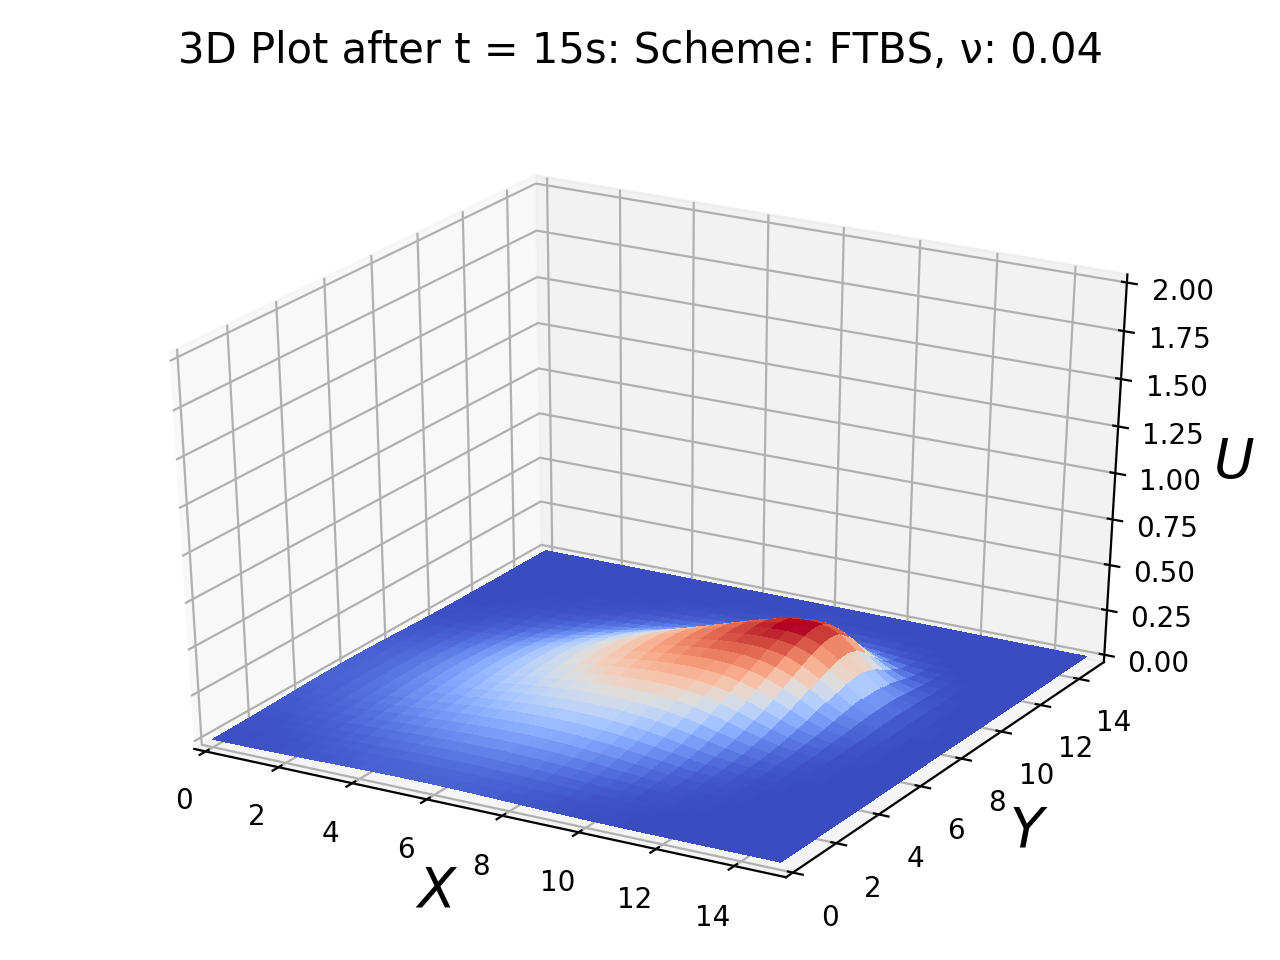
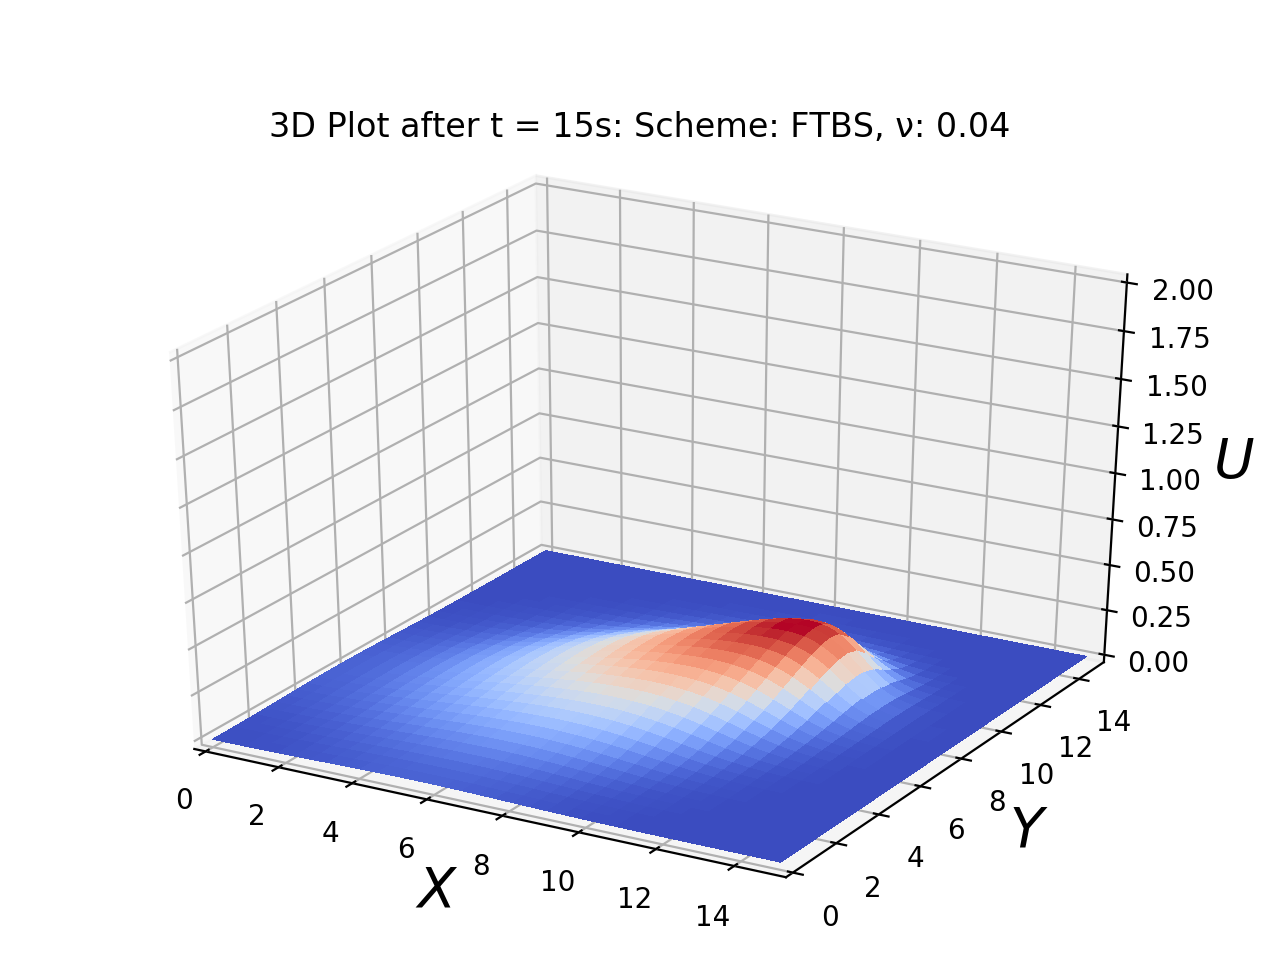
Corrected animation

Changed region(s): [[0.125, 0.0312, 0.875, 0.0625], [0.4062, 0.0938, 0.7812, 0.1562], [0.2188, 0.0938, 0.375, 0.1562]]

diff --git a/HW4/diffusion.py b/HW4/diffusion.py
@@ -7,6 +7,7 @@ from matplotlib import cm
 from matplotlib.ticker import LinearLocator, FormatStrFormatter
 import matplotlib
 
+# Initialize the grid points as per given in question
 def initialize_grid(N, A):
 	u_values = np.zeros((N,N))
 
@@ -23,6 +24,7 @@ def initialize_grid(N, A):
 
 	return u_values
 
+# Add ghost cells to the grid. Implement zero gradient boundary condition.
 def add_ghost_cells(u_values, N):
 	first_ghost_cell_row = u_values[0]
 	last_ghost_cell_row = u_values[-1]
@@ -38,7 +40,7 @@ def add_ghost_cells(u_values, N):
 
 	return u_values
 
-
+# Solve for u values via finite volume numerical iteration form
 def solve_iteration(u_values, N, dt, dx, dy, gamma, simulation_time):
 
 	num_iterations = int(simulation_time/dt)
@@ -83,16 +85,26 @@ def solve_iteration(u_values, N, dt, dx, dy, gamma, simulation_time):
 
 		u_values = np.array(new_u_values)
 
-		# if iteration%500 == 0:
+		# Change grid after every num_iteration/10 iterations
+		if iteration%(num_iterations/10) == 0:
+			surf.remove()
+			surf = ax.plot_surface(X,Y, u_values[1:N+1, 1:N+1], cmap = cm.coolwarm, 
+				linewidth = 0, antialiased = False)
+			ax.set_title("Simulating for t = {}s...\n".format(simulation_time), fontsize="15", y=1.08)
+			plt.draw()
+			plt.pause(0.1)
+
+	# Display and Save the final grid
 	surf.remove()
 	surf = ax.plot_surface(X, Y, new_u_values[1:N+1, 1:N+1], cmap=cm.coolwarm,
                        linewidth=0, antialiased=False)
 	ax.set_title("3D Plot after t = {}s: ".format(simulation_time))
-	# plt.savefig(saved_plots_dir + "diffusiont_{}.png".format(simulation_time))
+	plt.savefig(saved_plots_dir + "diffusiont_{}.png".format(simulation_time))
 
 	plt.draw()
-	plt.pause(0.5)
-		# surf.remove()
+	plt.pause(1.5)
+	surf.remove()
+	plt.close()
 
 	return u_values
 
@@ -104,7 +116,7 @@ dx = 20/(N-1)
 dy = 20/(N-1)
 gamma = 0.1
 
-time_values = [10,20,30,40]
+time_values = [0,10,20,30,40]
 initial_u_values = initialize_grid(N,A)
 initial_u_values = add_ghost_cells(initial_u_values, N)
 

diff --git a/HW4/advection_vectorized.py b/HW4/advection_vectorized.py
@@ -81,6 +81,15 @@ def solve_iteration(u_values, N, dt, dx, dy, simulation_time, Lambda, scheme_nam
 
 		u_values = np.array(new_u_values)
 
+		# Change grid after every num_iteration/10 iterations
+		if iteration%(num_iterations/10) == 0:
+			surf.remove()
+			surf = ax.plot_surface(X,Y, u_values[1:N+1, 1:N+1], cmap = cm.coolwarm, 
+				linewidth = 0, antialiased = False)
+			ax.set_title("Simulating for t = {}s: Scheme: {}...".format(simulation_time, scheme_name), fontsize="15", y=1.08)
+			plt.draw()
+			plt.pause(0.1)
+
 	surf.remove()
 	surf = ax.plot_surface(X, Y, new_u_values[1:N+1, 1:N+1], cmap=cm.coolwarm,
                        linewidth=0, antialiased=False)
@@ -88,7 +97,7 @@ def solve_iteration(u_values, N, dt, dx, dy, simulation_time, Lambda, scheme_nam
 	ax.set_title("3D Plot after t = {}s: Scheme: {}".format(simulation_time, scheme_name))
 	plt.draw()
 	plt.savefig(saved_plots_dir + "{}_advectiont_{}.png".format(scheme_name, simulation_time))
-	plt.pause(1)
+	plt.pause(2)
 	surf.remove()
 	return u_values
 
@@ -99,7 +108,7 @@ dt = 0.001
 dx = 20/(N-1)
 dy = 20/(N-1)
 
-time_values = [0,1,3,5,7.5,10,12,15]
+time_values = [0,5,10,15]
 initial_u_values = initialize_grid(N,A)
 initial_u_values = add_ghost_cells(initial_u_values, N)
 saved_plots_dir = "advection_plots/"

diff --git a/HW4/burger.py b/HW4/burger.py
@@ -100,9 +100,10 @@ def solve_iteration(u_values, N, dt, dx, dy, nu, Lambda, simulation_time, scheme
 	plt.tight_layout() 
 	surf = ax.plot_surface(X, Y, u_values[1:N+1, 1:N+1], cmap = cm.coolwarm, 
 		linewidth = 0, antialiased=False)
-	ax.set_title("3D Plot after t = {}s: Scheme: {}, ν: {}\n".format(simulation_time, scheme_name, nu), fontsize="15", y=1.08)
+	ax.set_title("3D Plot after t = {}s: Scheme: {}, ν: {}\n".format(simulation_time, scheme_name, nu))
 	plt.draw()
 	plt.savefig(saved_plots_dir+"burger_{}_t_{}.png".format(scheme_name, simulation_time))
+	plt.pause(2)
 	surf.remove()
 	print("Plot saved!")
 	plt.close()
